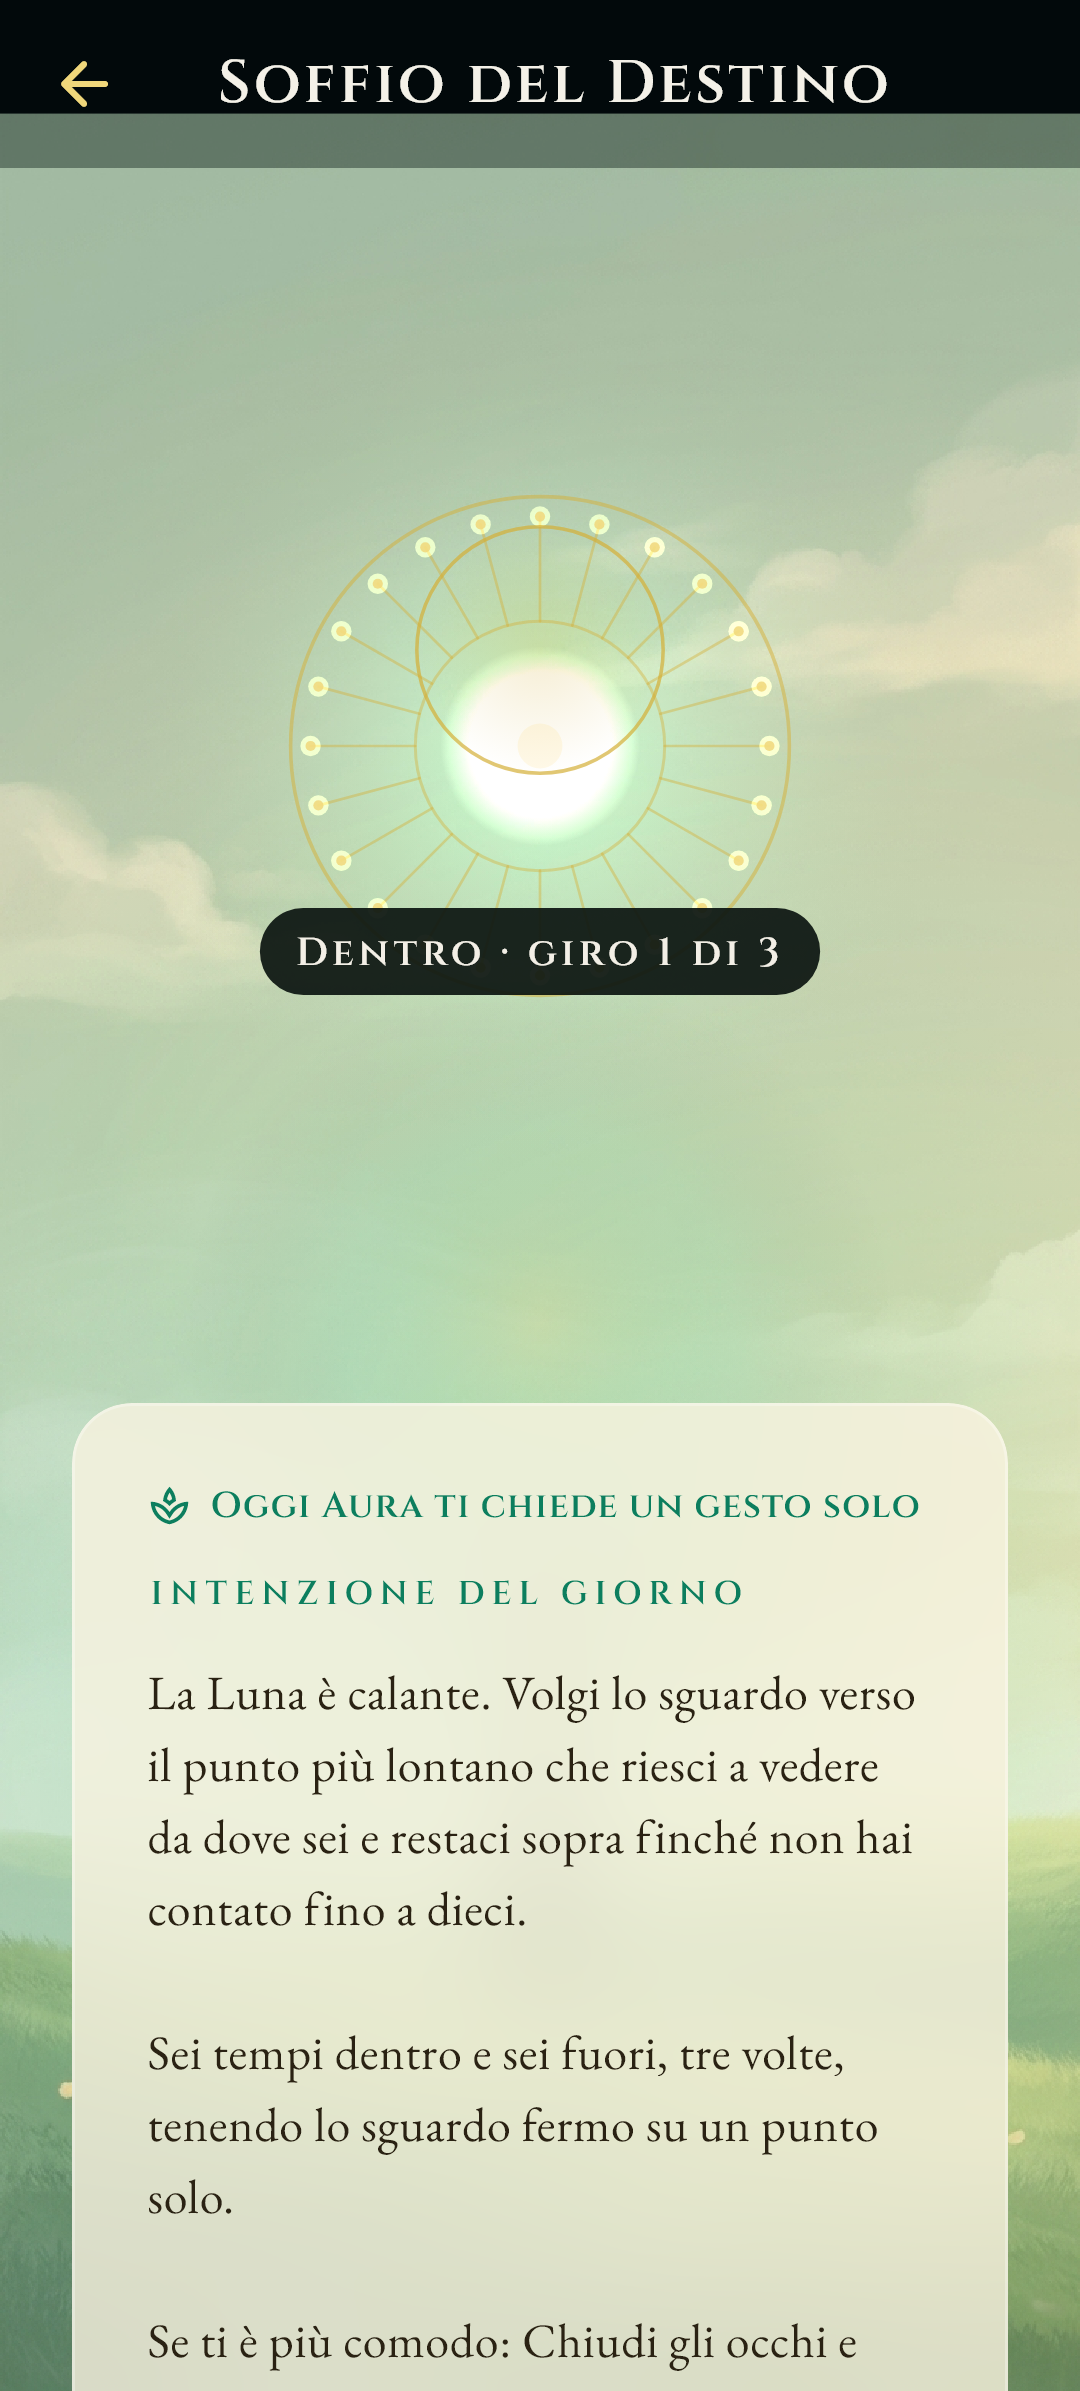
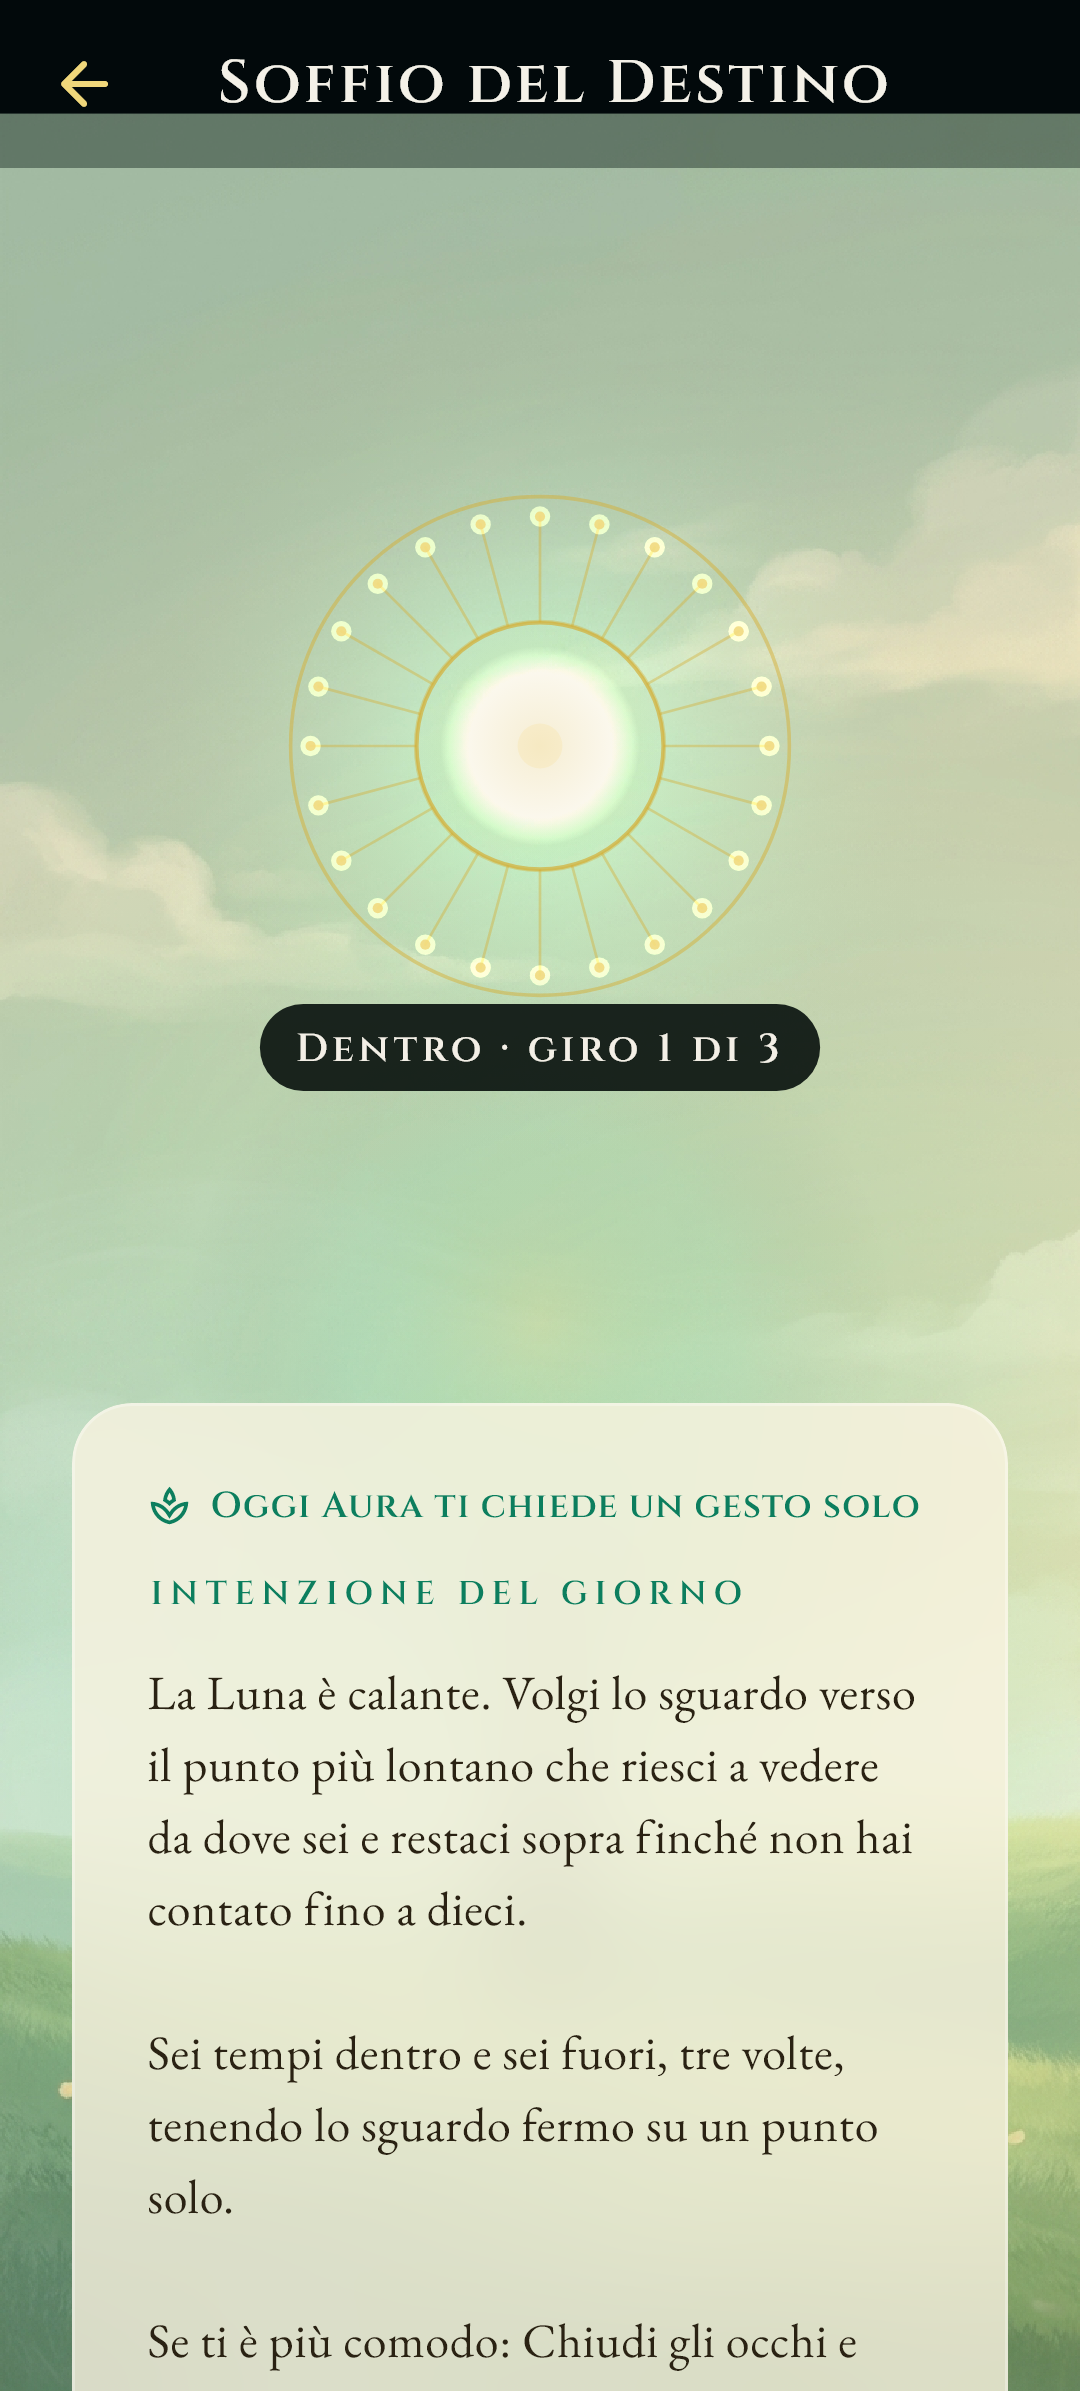
Il disco e l'anello del Soffio hanno un centro solo, e distavano 9,3 punti
I due centri erano decisi in due sistemi diversi: il disco a 0,26 dell'altezza
del corpo dentro il painter, l'anello dentro una colonna allineata a -0,2 di una
zona flex. Non potevano coincidere per costruzione.

Adesso il numero e' uno, sta in `SuperficiDelSoffio.centroDelDisco`, e lo legge
il painter. L'anello lo insegue con una correzione MISURATA sulla resa, non
calcolata sui flex: si guarda dove la figura del respiro e' finita davvero e la
si sposta di quanto manca, poi la correzione si ferma da sola sotto il mezzo
punto. Un conto fatto sugli allineamenti sarebbe giusto oggi e falso domani, al
primo padding che qualcuno cambia.

E' l'anello a inseguire il disco e non il contrario: il disco cresce col soffio
fin dal primo istante, mentre l'anello nasce solo a gesto compiuto, quindi
spostare il disco avrebbe prodotto un salto a meta' rito.

La chiave sta sul figlio del `Transform.scale` e non sulla scala: un Transform
non cambia la misura del riquadro che occupa, quindi il suo rettangolo direbbe
la posizione a riposo anche mentre la figura si espande.

Misura prima e dopo, sulla resa a 1080x2391: 9,3 punti di scarto, adesso sotto
1,0. Il rosso e' stato eseguito spegnendo l'inseguimento, ed e' il numero che si
legge qui sopra. Anteprima rigenerata `docs/preview/soffio-destino-dono.png`,
dove il contatore ha il suo velo e il disco sta dentro l'anello.

diff --git a/lib/features/rituals/breath_destiny_screen.dart b/lib/features/rituals/breath_destiny_screen.dart
@@ -65,6 +65,27 @@ class SuperficiDelSoffio {
   /// Le due righe della Risposta: la prima piena, la seconda in tono minore.
   static const Color inchiostroDellaRisposta = Color(0xFFF3EFE6);
   static const Color inchiostroSecondarioDellaRisposta = Color(0xFFCFC9BC);
+
+  /// DOVE CADE IL DISCO LUMINOSO, in frazioni della scena.
+  ///
+  /// **E' il centro di due cose, non di una.** Il disco lo dipinge il painter e
+  /// l'anello del respiro lo dispone il layout: erano due centri decisi in due
+  /// sistemi diversi, il primo a 0,26 dell'altezza del corpo e il secondo
+  /// dentro una colonna allineata a -0,2 di una zona flex, quindi non potevano
+  /// coincidere per costruzione, e a video si leggeva come un difetto di
+  /// stampa.
+  ///
+  /// **E' l'anello a inseguire il disco, non il contrario.** Il disco cresce
+  /// col soffio fin dal primo istante, mentre l'anello nasce solo a gesto
+  /// compiuto: spostare il disco sull'anello avrebbe prodotto un salto proprio
+  /// a meta' del rito.
+  static const Offset centroDelDisco = Offset(0.5, 0.26);
+
+  /// Il centro del disco in punti, dentro una scena di [misura].
+  static Offset discoDentro(Size misura) => Offset(
+        misura.width * centroDelDisco.dx,
+        misura.height * centroDelDisco.dy,
+      );
 }
 
 class BreathDestinyScreen extends StatefulWidget {
@@ -314,9 +335,43 @@ class _BreathDestinyScreenState extends State<BreathDestinyScreen>
     }
   }
 
+  /// LA SCENA E L'ANELLO, per misurare la distanza fra i due centri.
+  ///
+  /// Non si calcola a mente: si guarda dove la figura del respiro e' finita
+  /// davvero e si sposta di quanto manca. Un conto fatto sui flex e sugli
+  /// allineamenti sarebbe giusto oggi e falso domani, al primo padding che
+  /// qualcuno cambia.
+  final GlobalKey _scena = GlobalKey();
+  final GlobalKey _anello = GlobalKey();
+
+  /// Quanto spostare l'anello perche' cada dentro il disco. Zero finche' non
+  /// c'e' niente da misurare.
+  double _inseguimento = 0;
+
+  /// Misura la distanza fra i due centri e la corregge, una volta per frame.
+  ///
+  /// Si ferma da sola: appena i due coincidono lo scarto e' sotto il mezzo
+  /// punto e non si chiede piu' nessun ridisegno.
+  void _allineaLAnello() {
+    final scena = _scena.currentContext?.findRenderObject();
+    final anello = _anello.currentContext?.findRenderObject();
+    if (scena is! RenderBox || anello is! RenderBox) return;
+    if (!scena.hasSize || !anello.hasSize) return;
+    final centroAnello = scena.globalToLocal(
+        anello.localToGlobal(anello.size.center(Offset.zero)));
+    final voluto = SuperficiDelSoffio.discoDentro(scena.size);
+    final manca = voluto.dy - centroAnello.dy;
+    if (manca.abs() < 0.5) return;
+    if (!mounted) return;
+    setState(() => _inseguimento += manca);
+  }
+
   @override
   Widget build(BuildContext context) {
     final palette = MaestroPalette.forKey(const ThemeKey.of(Maestro.aura));
+    // La misura si prende a frame finito, quando i due riquadri esistono
+    // davvero: durante il build hanno ancora la misura del giro precedente.
+    WidgetsBinding.instance.addPostFrameCallback((_) => _allineaLAnello());
 
     return Scaffold(
       backgroundColor: ColorTokens.neutralDeepest,
@@ -333,6 +388,7 @@ class _BreathDestinyScreenState extends State<BreathDestinyScreen>
             Text('Soffio del Destino', style: TypographyTokens.display(size: 20)),
       ),
       body: Stack(
+        key: _scena,
         fit: StackFit.expand,
         children: [
           Positioned.fill(
@@ -385,15 +441,23 @@ class _BreathDestinyScreenState extends State<BreathDestinyScreen>
                           // dentro e sei fuori, tre volte" e la persona
                           // contava a mente davanti a una figura ferma.
                           if (_revealed && _gift?.rito != null)
+                            // L'ANELLO CADE DENTRO IL DISCO. L'allineamento di
+                            // partenza non conta piu': qualunque esso sia, la
+                            // misura a frame finito lo porta sul centro
+                            // dichiarato da `SuperficiDelSoffio`.
                             Align(
-                              alignment: const Alignment(0, -0.2),
-                              child: GuidaDelRespiro(
-                                key: const Key('guida_respiro'),
-                                tempi: TempiDelRespiro(
-                                  tempi: _gift!.rito!.tempi,
-                                  giri: _gift!.rito!.giri,
+                              alignment: Alignment.center,
+                              child: Transform.translate(
+                                offset: Offset(0, _inseguimento),
+                                child: GuidaDelRespiro(
+                                  key: const Key('guida_respiro'),
+                                  chiaveDellaFigura: _anello,
+                                  tempi: TempiDelRespiro(
+                                    tempi: _gift!.rito!.tempi,
+                                    giri: _gift!.rito!.giri,
+                                  ),
+                                  colore: palette.gold,
                                 ),
-                                colore: palette.gold,
                               ),
                             ),
                         ],
@@ -606,7 +670,7 @@ class _BreathScenePainter extends CustomPainter {
     final dstTop = headCenter.dy - _headFy * dstH;
     final dstLeft = w * 0.5 - _headFx * dstW;
     final headR = _headRFrac * dstW;
-    final giftCenter = Offset(w * 0.5, h * 0.26);
+    final giftCenter = SuperficiDelSoffio.discoDentro(size);
 
     // --- Visivo del dono, provvisorio: una forma energetica che si accende ---
     // man mano che le scintille dei semi salgono a comporla. La forma vera

diff --git a/test/il_soffio_si_legge_test.dart b/test/il_soffio_si_legge_test.dart
@@ -2,7 +2,9 @@ import 'package:esoteric_circle/core/maestro/maestro.dart';
 import 'package:esoteric_circle/design_system/theme/accento_del_maestro.dart';
 import 'package:esoteric_circle/design_system/theme/maestro_palette.dart';
 import 'package:esoteric_circle/features/rituals/breath_destiny_screen.dart';
+import 'package:flutter/material.dart';
 import 'package:flutter_test/flutter_test.dart';
+import 'package:shared_preferences/shared_preferences.dart';
 
 /// IL SOFFIO SI DEVE LEGGERE, e le cose si misurano.
 ///
@@ -67,6 +69,54 @@ void main() {
         reason: 'Sul velo scuro il verde crudo misurava 5,83 e adesso misura '
             '${crudoSulVelo.toStringAsFixed(2)}: se fosse sceso sotto la '
             'soglia, il velo e\' cambiato e va rimisurato tutto.');
+  });
+
+  testWidgets('il disco luminoso e l\'anello del respiro hanno un centro solo',
+      (tester) async {
+    // **PRIMA:** il disco stava a 0,26 dell'altezza del corpo, dentro il
+    // painter, e l'anello dentro una colonna allineata a -0,2 di una zona
+    // flex: due centri decisi in due sistemi diversi, che non potevano
+    // coincidere per costruzione.
+    //
+    // Si misura sulla RESA e non sui flex: si guarda dove la figura del
+    // respiro e' finita davvero e la si confronta col centro dichiarato.
+    tester.view.physicalSize = const Size(1080, 2391);
+    tester.view.devicePixelRatio = 3.0;
+    addTearDown(tester.view.reset);
+    SharedPreferences.setMockInitialValues({});
+
+    // Senza `MaestroScope` attorno: la schermata legge la palette di Aura da
+    // se', e lo scope pretenderebbe un `MaestroController` che qui non serve.
+    await tester.pumpWidget(MaterialApp(
+      home: BreathDestinyScreen(now: DateTime(2026, 8, 6, 10, 30)),
+    ));
+    await tester.pump();
+    await tester.pump(const Duration(milliseconds: 600));
+
+    // Si compie il gesto col ripiego tattile, che e' sempre presente: il
+    // respiro compare solo a dono rivelato.
+    await tester.longPress(find.byKey(const Key('ritual_gesture')));
+    for (var i = 0; i < 8; i++) {
+      await tester.pump(const Duration(milliseconds: 200));
+    }
+
+    final figura = find.byKey(const Key('respiro_figura'));
+    if (figura.evaluate().isEmpty) {
+      // Il rito del giorno puo' non portare una cadenza: senza respiro non c'e'
+      // nessun anello da allineare, e la prova lo dichiara invece di passare in
+      // silenzio.
+      markTestSkipped('Il rito di questo giorno non porta un respiro contato.');
+      return;
+    }
+
+    final scena = tester.getRect(find.byType(Stack).first);
+    final centroAnello = tester.getCenter(figura);
+    final voluto = SuperficiDelSoffio.discoDentro(scena.size);
+    final scarto = (centroAnello.dy - scena.top) - voluto.dy;
+    expect(scarto.abs(), lessThan(1.0),
+        reason: 'Il disco luminoso e l\'anello del respiro distano '
+            '${scarto.toStringAsFixed(1)} punti: a video si legge come un '
+            'difetto di stampa. I due devono leggere lo stesso centro.');
   });
 
   test('il velo copre abbastanza da valere come superficie', () {

diff --git a/lib/design_system/components/guida_del_respiro.dart b/lib/design_system/components/guida_del_respiro.dart
@@ -25,7 +25,16 @@ class GuidaDelRespiro extends StatefulWidget {
     required this.colore,
     this.figura,
     this.onFinito,
+    this.chiaveDellaFigura,
   });
+
+  /// Chi ha bisogno di sapere DOVE sta la figura che respira la aggancia qui.
+  ///
+  /// Serve al Soffio, che deve far cadere il disco luminoso della scena
+  /// esattamente attorno a questo anello: senza una chiave sulla figura si
+  /// misurerebbe il centro della colonna, che comprende anche il conteggio
+  /// sotto e sta quindi piu' in basso del centro dell'anello.
+  final GlobalKey? chiaveDellaFigura;
 
   /// La cadenza dichiarata dal rito del giorno.
   final TempiDelRespiro tempi;
@@ -100,7 +109,14 @@ class _GuidaDelRespiroState extends State<GuidaDelRespiro>
             Transform.scale(
               key: const Key('respiro_figura'),
               scale: _riduciMovimento ? 1.0 : misura,
-              child: figura,
+              // La chiave sta sul FIGLIO e non sulla scala: un `Transform` non
+              // cambia la misura del riquadro che occupa, quindi il suo
+              // rettangolo direbbe la posizione a riposo anche mentre la figura
+              // si espande, e chi la insegue si fermerebbe un po' fuori centro.
+              child: KeyedSubtree(
+                key: widget.chiaveDellaFigura,
+                child: figura,
+              ),
             ),
             const SizedBox(height: 16),
             // IL CONTEGGIO, che resta sempre. E' l'unica cosa che chi ha
